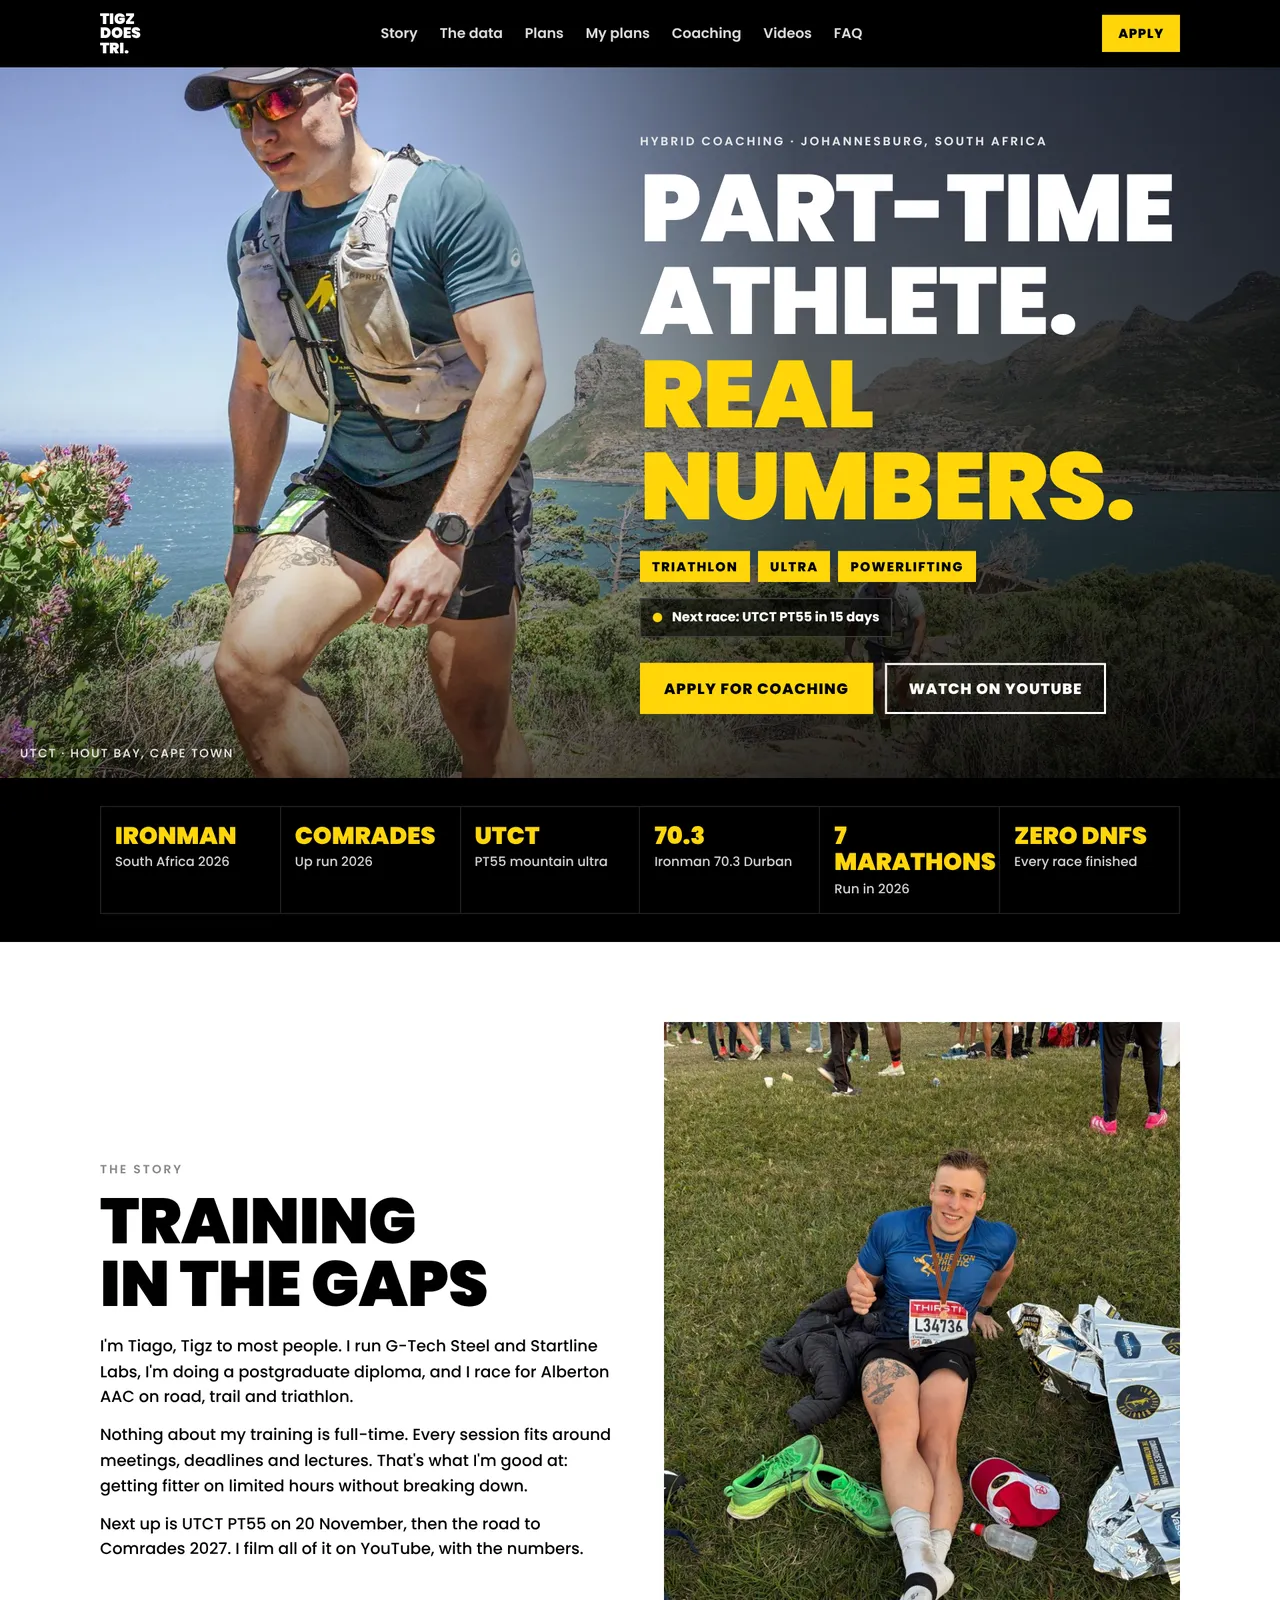
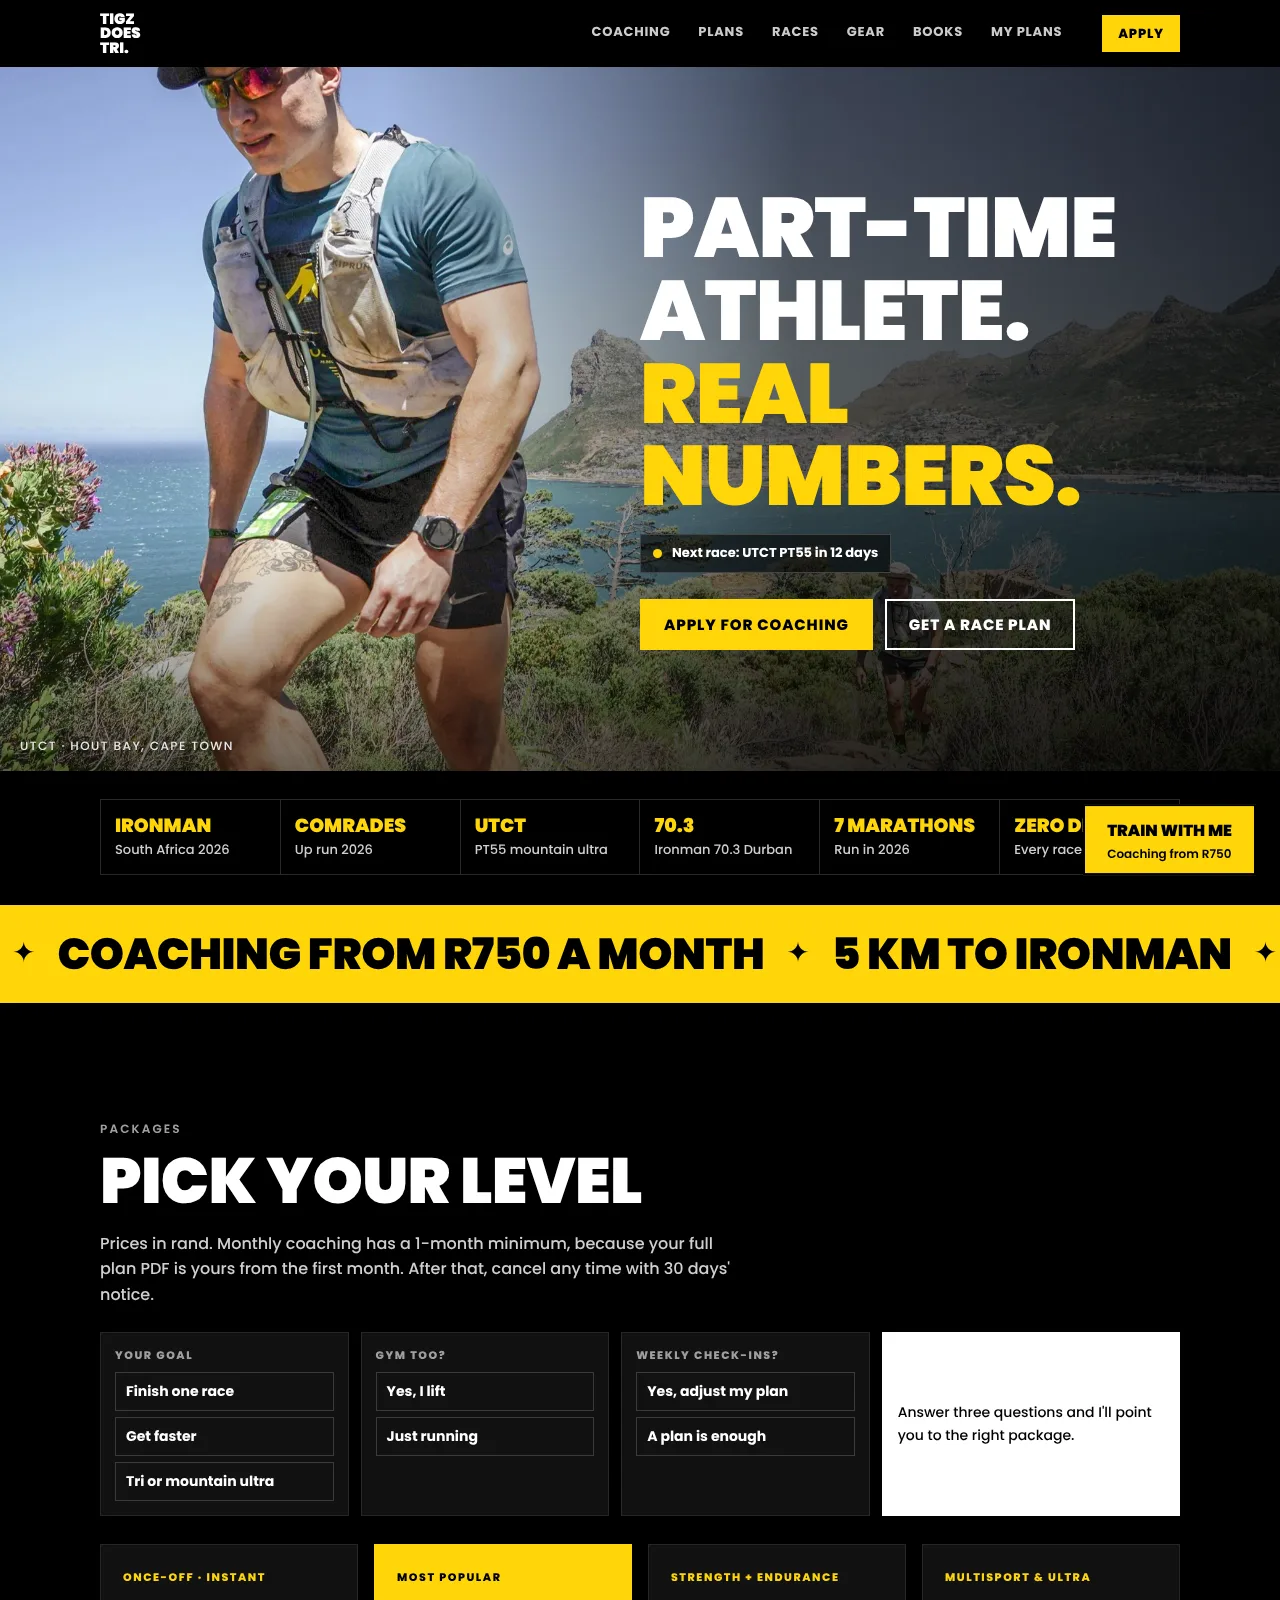
Point TigzDoesTri to the new coaching site at tigzdoestri.com with fresh screenshots
Claude-Session: https://claude.ai/code/session_01UXXcUucnSfuN5ZBDDhgEJA

diff --git a/work.html b/work.html
@@ -102,14 +102,14 @@
     </article>
     <div class="head reveal" style="margin-top:clamp(40px,6vw,72px)"><h2 class="h2">Our own websites<span class="dot">.</span></h2></div>
     <article class="case spot reveal" id="tigzsite">
-      <div class="browser "><div class="bbar"><span class="bdots"><i></i><i></i><i></i></span><span class="burl"><svg viewBox="0 0 24 24" fill="none" stroke="currentColor" stroke-width="1.8" stroke-linecap="round" stroke-linejoin="round" aria-hidden="true"><circle cx="12" cy="12" r="8.5"/><path d="M3.5 12h17M12 3.5c2.6 2.4 3.8 5.2 3.8 8.5s-1.2 6.1-3.8 8.5c-2.6-2.4-3.8-5.2-3.8-8.5s1.2-6.1 3.8-8.5Z"/></svg>tiagodearaujo.com</span></div><div class="bview shot"><img src="/img/sites/tigzsite.webp" alt="The tiagodearaujo.com home page" width="1280" height="1600" loading="lazy" decoding="async"></div></div>
+      <div class="browser "><div class="bbar"><span class="bdots"><i></i><i></i><i></i></span><span class="burl"><svg viewBox="0 0 24 24" fill="none" stroke="currentColor" stroke-width="1.8" stroke-linecap="round" stroke-linejoin="round" aria-hidden="true"><circle cx="12" cy="12" r="8.5"/><path d="M3.5 12h17M12 3.5c2.6 2.4 3.8 5.2 3.8 8.5s-1.2 6.1-3.8 8.5c-2.6-2.4-3.8-5.2-3.8-8.5s1.2-6.1 3.8-8.5Z"/></svg>tigzdoestri.com</span></div><div class="bview shot"><img src="/img/sites/tigzsite.webp" alt="The tigzdoestri.com home page" width="1280" height="1600" loading="lazy" decoding="async"></div></div>
       <div class="case-body">
         <span class="case-logo cbadge"><img src="/img/logos/tigzdoestri.webp" alt="TigzDoesTri logo" width="56" height="56" loading="lazy" decoding="async"></span>
-        <span class="status"><i></i>Coaching platform in development</span>
+        <span class="status"><i></i>Live · plan builder coming soon</span>
         <h2>TigzDoesTri website<span class="dot">.</span></h2>
-        <p class="lead">The website for our founder's training brand, growing into a coaching platform for runners and triathletes, built on the same engine as Startline.</p>
-        <ul class="checks"><li><svg viewBox="0 0 24 24" fill="none" stroke="currentColor" stroke-width="1.8" stroke-linecap="round" stroke-linejoin="round" aria-hidden="true"><path d="M5 12.5l4.2 4.2L19 7"/></svg><span>Personal website with races, training and the YouTube channel</span></li><li><svg viewBox="0 0 24 24" fill="none" stroke="currentColor" stroke-width="1.8" stroke-linecap="round" stroke-linejoin="round" aria-hidden="true"><path d="M5 12.5l4.2 4.2L19 7"/></svg><span>Coaching packages for athletes</span></li><li><svg viewBox="0 0 24 24" fill="none" stroke="currentColor" stroke-width="1.8" stroke-linecap="round" stroke-linejoin="round" aria-hidden="true"><path d="M5 12.5l4.2 4.2L19 7"/></svg><span>A step-by-step questionnaire that builds a race plan for you</span></li><li><svg viewBox="0 0 24 24" fill="none" stroke="currentColor" stroke-width="1.8" stroke-linecap="round" stroke-linejoin="round" aria-hidden="true"><path d="M5 12.5l4.2 4.2L19 7"/></svg><span>Sign in with Google to see your plan on the site and download it</span></li><li><svg viewBox="0 0 24 24" fill="none" stroke="currentColor" stroke-width="1.8" stroke-linecap="round" stroke-linejoin="round" aria-hidden="true"><path d="M5 12.5l4.2 4.2L19 7"/></svg><span>Plans that build volume while keeping injury risk down</span></li></ul>
-        <div class="site-foot"><a class="btn btn-primary btn-sm" href="https://tiagodearaujo.com" target="_blank" rel="noopener">Visit tiagodearaujo.com<svg viewBox="0 0 24 24" fill="none" stroke="currentColor" stroke-width="1.8" stroke-linecap="round" stroke-linejoin="round" aria-hidden="true"><path d="M7 17 17 7M9 7h8v8"/></svg></a><a class="btn btn-ghost btn-sm" href="#tigzdoestri">The TigzDoesTri brand<svg class="arr" viewBox="0 0 24 24" fill="none" stroke="currentColor" stroke-width="1.8" stroke-linecap="round" stroke-linejoin="round" aria-hidden="true"><path d="M5 12h14M13 6l6 6-6 6"/></svg></a></div>
+        <p class="lead">Our founder's coaching website for runners and triathletes, live at tigzdoestri.com. Its race plans run on the same engine as Startline.</p>
+        <ul class="checks"><li><svg viewBox="0 0 24 24" fill="none" stroke="currentColor" stroke-width="1.8" stroke-linecap="round" stroke-linejoin="round" aria-hidden="true"><path d="M5 12.5l4.2 4.2L19 7"/></svg><span>Coaching packages with a three-question picker that points you to the right one</span></li><li><svg viewBox="0 0 24 24" fill="none" stroke="currentColor" stroke-width="1.8" stroke-linecap="round" stroke-linejoin="round" aria-hidden="true"><path d="M5 12.5l4.2 4.2L19 7"/></svg><span>A race calendar, PBs and results, pulled from the Startline app</span></li><li><svg viewBox="0 0 24 24" fill="none" stroke="currentColor" stroke-width="1.8" stroke-linecap="round" stroke-linejoin="round" aria-hidden="true"><path d="M5 12.5l4.2 4.2L19 7"/></svg><span>Gear and bookshelf pages, with a page for every book</span></li><li><svg viewBox="0 0 24 24" fill="none" stroke="currentColor" stroke-width="1.8" stroke-linecap="round" stroke-linejoin="round" aria-hidden="true"><path d="M5 12.5l4.2 4.2L19 7"/></svg><span>Coaching application form</span></li><li><svg viewBox="0 0 24 24" fill="none" stroke="currentColor" stroke-width="1.8" stroke-linecap="round" stroke-linejoin="round" aria-hidden="true"><path d="M5 12.5l4.2 4.2L19 7"/></svg><span>Coming soon: a step-by-step plan builder and My plans with Google sign-in</span></li></ul>
+        <div class="site-foot"><a class="btn btn-primary btn-sm" href="https://tigzdoestri.com" target="_blank" rel="noopener">Visit tigzdoestri.com<svg viewBox="0 0 24 24" fill="none" stroke="currentColor" stroke-width="1.8" stroke-linecap="round" stroke-linejoin="round" aria-hidden="true"><path d="M7 17 17 7M9 7h8v8"/></svg></a><a class="btn btn-ghost btn-sm" href="#tigzdoestri">The TigzDoesTri brand<svg class="arr" viewBox="0 0 24 24" fill="none" stroke="currentColor" stroke-width="1.8" stroke-linecap="round" stroke-linejoin="round" aria-hidden="true"><path d="M5 12h14M13 6l6 6-6 6"/></svg></a></div>
       </div>
     </article>
     <div class="sites" style="grid-template-columns:minmax(0,1fr);margin-top:clamp(12px,1.6vw,20px)">
@@ -138,14 +138,14 @@
   <div class="wrap">
     <div class="head reveal"><h2 class="h2">Our own brands<span class="dot">.</span></h2></div>
     <article class="case spot reveal" id="tigzdoestri">
-      <div class="browser "><div class="bbar"><span class="bdots"><i></i><i></i><i></i></span><span class="burl"><svg viewBox="0 0 24 24" fill="none" stroke="currentColor" stroke-width="1.8" stroke-linecap="round" stroke-linejoin="round" aria-hidden="true"><circle cx="12" cy="12" r="8.5"/><path d="M3.5 12h17M12 3.5c2.6 2.4 3.8 5.2 3.8 8.5s-1.2 6.1-3.8 8.5c-2.6-2.4-3.8-5.2-3.8-8.5s1.2-6.1 3.8-8.5Z"/></svg>tiagodearaujo.com</span></div><div class="bview shot"><img src="/img/sites/tigzsite.webp" alt="The tiagodearaujo.com home page" width="1280" height="1600" loading="lazy" decoding="async"></div></div>
+      <div class="browser "><div class="bbar"><span class="bdots"><i></i><i></i><i></i></span><span class="burl"><svg viewBox="0 0 24 24" fill="none" stroke="currentColor" stroke-width="1.8" stroke-linecap="round" stroke-linejoin="round" aria-hidden="true"><circle cx="12" cy="12" r="8.5"/><path d="M3.5 12h17M12 3.5c2.6 2.4 3.8 5.2 3.8 8.5s-1.2 6.1-3.8 8.5c-2.6-2.4-3.8-5.2-3.8-8.5s1.2-6.1 3.8-8.5Z"/></svg>tigzdoestri.com</span></div><div class="bview shot"><img src="/img/sites/tigzcoach.webp" alt="The tigzdoestri.com home page" width="1280" height="1600" loading="lazy" decoding="async"></div></div>
       <div class="case-body">
         <span class="case-logo cbadge"><img src="/img/logos/tigzdoestri.webp" alt="TigzDoesTri logo" width="56" height="56" loading="lazy" decoding="async"></span>
         <span class="status"><i></i>YouTube channel launching November 2026</span>
         <h2>TigzDoesTri<span class="dot">.</span></h2>
         <p class="lead">Our founder Tiago's own brand. It follows a part-time athlete training for trail ultras, Comrades and triathlon while building this studio, with the real numbers behind both.</p>
-        <ul class="checks"><li><svg viewBox="0 0 24 24" fill="none" stroke="currentColor" stroke-width="1.8" stroke-linecap="round" stroke-linejoin="round" aria-hidden="true"><path d="M5 12.5l4.2 4.2L19 7"/></svg><span>Personal website at tiagodearaujo.com</span></li><li><svg viewBox="0 0 24 24" fill="none" stroke="currentColor" stroke-width="1.8" stroke-linecap="round" stroke-linejoin="round" aria-hidden="true"><path d="M5 12.5l4.2 4.2L19 7"/></svg><span>A weekly YouTube channel: race films, training weeks and the data behind them</span></li><li><svg viewBox="0 0 24 24" fill="none" stroke="currentColor" stroke-width="1.8" stroke-linecap="round" stroke-linejoin="round" aria-hidden="true"><path d="M5 12.5l4.2 4.2L19 7"/></svg><span>Runs on Startline, our own training app, with metres per heartbeat as its fitness measure</span></li><li><svg viewBox="0 0 24 24" fill="none" stroke="currentColor" stroke-width="1.8" stroke-linecap="round" stroke-linejoin="round" aria-hidden="true"><path d="M5 12.5l4.2 4.2L19 7"/></svg><span>The same tools and care we put into client work, used by us every day</span></li></ul>
-        <div class="site-foot"><a class="btn btn-primary btn-sm" href="https://tiagodearaujo.com" target="_blank" rel="noopener">Visit tiagodearaujo.com<svg viewBox="0 0 24 24" fill="none" stroke="currentColor" stroke-width="1.8" stroke-linecap="round" stroke-linejoin="round" aria-hidden="true"><path d="M7 17 17 7M9 7h8v8"/></svg></a><a class="btn btn-ghost btn-sm" href="/app-startline">See the Startline app<svg class="arr" viewBox="0 0 24 24" fill="none" stroke="currentColor" stroke-width="1.8" stroke-linecap="round" stroke-linejoin="round" aria-hidden="true"><path d="M5 12h14M13 6l6 6-6 6"/></svg></a></div>
+        <ul class="checks"><li><svg viewBox="0 0 24 24" fill="none" stroke="currentColor" stroke-width="1.8" stroke-linecap="round" stroke-linejoin="round" aria-hidden="true"><path d="M5 12.5l4.2 4.2L19 7"/></svg><span>Coaching website at tigzdoestri.com</span></li><li><svg viewBox="0 0 24 24" fill="none" stroke="currentColor" stroke-width="1.8" stroke-linecap="round" stroke-linejoin="round" aria-hidden="true"><path d="M5 12.5l4.2 4.2L19 7"/></svg><span>A weekly YouTube channel: race films, training weeks and the data behind them</span></li><li><svg viewBox="0 0 24 24" fill="none" stroke="currentColor" stroke-width="1.8" stroke-linecap="round" stroke-linejoin="round" aria-hidden="true"><path d="M5 12.5l4.2 4.2L19 7"/></svg><span>Runs on Startline, our own training app, with metres per heartbeat as its fitness measure</span></li><li><svg viewBox="0 0 24 24" fill="none" stroke="currentColor" stroke-width="1.8" stroke-linecap="round" stroke-linejoin="round" aria-hidden="true"><path d="M5 12.5l4.2 4.2L19 7"/></svg><span>The same tools and care we put into client work, used by us every day</span></li></ul>
+        <div class="site-foot"><a class="btn btn-primary btn-sm" href="https://tigzdoestri.com" target="_blank" rel="noopener">Visit tigzdoestri.com<svg viewBox="0 0 24 24" fill="none" stroke="currentColor" stroke-width="1.8" stroke-linecap="round" stroke-linejoin="round" aria-hidden="true"><path d="M7 17 17 7M9 7h8v8"/></svg></a><a class="btn btn-ghost btn-sm" href="/app-startline">See the Startline app<svg class="arr" viewBox="0 0 24 24" fill="none" stroke="currentColor" stroke-width="1.8" stroke-linecap="round" stroke-linejoin="round" aria-hidden="true"><path d="M5 12h14M13 6l6 6-6 6"/></svg></a></div>
       </div>
     </article>
   </div>

diff --git a/index.html b/index.html
@@ -96,12 +96,12 @@
         </div>
       </article>
       <article class="site spot">
-        <div class="browser "><div class="bbar"><span class="bdots"><i></i><i></i><i></i></span><span class="burl"><svg viewBox="0 0 24 24" fill="none" stroke="currentColor" stroke-width="1.8" stroke-linecap="round" stroke-linejoin="round" aria-hidden="true"><circle cx="12" cy="12" r="8.5"/><path d="M3.5 12h17M12 3.5c2.6 2.4 3.8 5.2 3.8 8.5s-1.2 6.1-3.8 8.5c-2.6-2.4-3.8-5.2-3.8-8.5s1.2-6.1 3.8-8.5Z"/></svg>tiagodearaujo.com</span></div><div class="bview shot"><img src="/img/sites/tigzsite.webp" alt="The tiagodearaujo.com home page" width="1280" height="1600" loading="lazy" decoding="async"></div></div>
+        <div class="browser "><div class="bbar"><span class="bdots"><i></i><i></i><i></i></span><span class="burl"><svg viewBox="0 0 24 24" fill="none" stroke="currentColor" stroke-width="1.8" stroke-linecap="round" stroke-linejoin="round" aria-hidden="true"><circle cx="12" cy="12" r="8.5"/><path d="M3.5 12h17M12 3.5c2.6 2.4 3.8 5.2 3.8 8.5s-1.2 6.1-3.8 8.5c-2.6-2.4-3.8-5.2-3.8-8.5s1.2-6.1 3.8-8.5Z"/></svg>tigzdoestri.com</span></div><div class="bview shot"><img src="/img/sites/tigzsite.webp" alt="The tigzdoestri.com home page" width="1280" height="1600" loading="lazy" decoding="async"></div></div>
         <div class="site-body">
           <h3 class="site-name">TigzDoesTri</h3>
-          <p class="site-desc">Our founder's training brand, growing into a coaching platform with race plans built from a step-by-step questionnaire.</p>
-          <div class="chips"><span class="chip">Our own website</span><span class="chip">Coaching</span><span class="chip">Plan builder</span><span class="chip">Google sign-in</span></div>
-          <div class="site-foot"><a class="link" href="/work#tigzsite">See the project<svg class="arr" viewBox="0 0 24 24" fill="none" stroke="currentColor" stroke-width="1.8" stroke-linecap="round" stroke-linejoin="round" aria-hidden="true"><path d="M5 12h14M13 6l6 6-6 6"/></svg></a><a class="link" href="https://tiagodearaujo.com" target="_blank" rel="noopener">Visit the site<svg viewBox="0 0 24 24" fill="none" stroke="currentColor" stroke-width="1.8" stroke-linecap="round" stroke-linejoin="round" aria-hidden="true"><path d="M7 17 17 7M9 7h8v8"/></svg></a></div>
+          <p class="site-desc">Our founder's run and triathlon coaching site: packages, races, gear and books, with a race-plan builder on the way.</p>
+          <div class="chips"><span class="chip">Our own website</span><span class="chip">Coaching packages</span><span class="chip">Race calendar</span><span class="chip">Plan builder</span></div>
+          <div class="site-foot"><a class="link" href="/work#tigzsite">See the project<svg class="arr" viewBox="0 0 24 24" fill="none" stroke="currentColor" stroke-width="1.8" stroke-linecap="round" stroke-linejoin="round" aria-hidden="true"><path d="M5 12h14M13 6l6 6-6 6"/></svg></a><a class="link" href="https://tigzdoestri.com" target="_blank" rel="noopener">Visit the site<svg viewBox="0 0 24 24" fill="none" stroke="currentColor" stroke-width="1.8" stroke-linecap="round" stroke-linejoin="round" aria-hidden="true"><path d="M7 17 17 7M9 7h8v8"/></svg></a></div>
         </div>
       </article>
       <article class="site spot">
